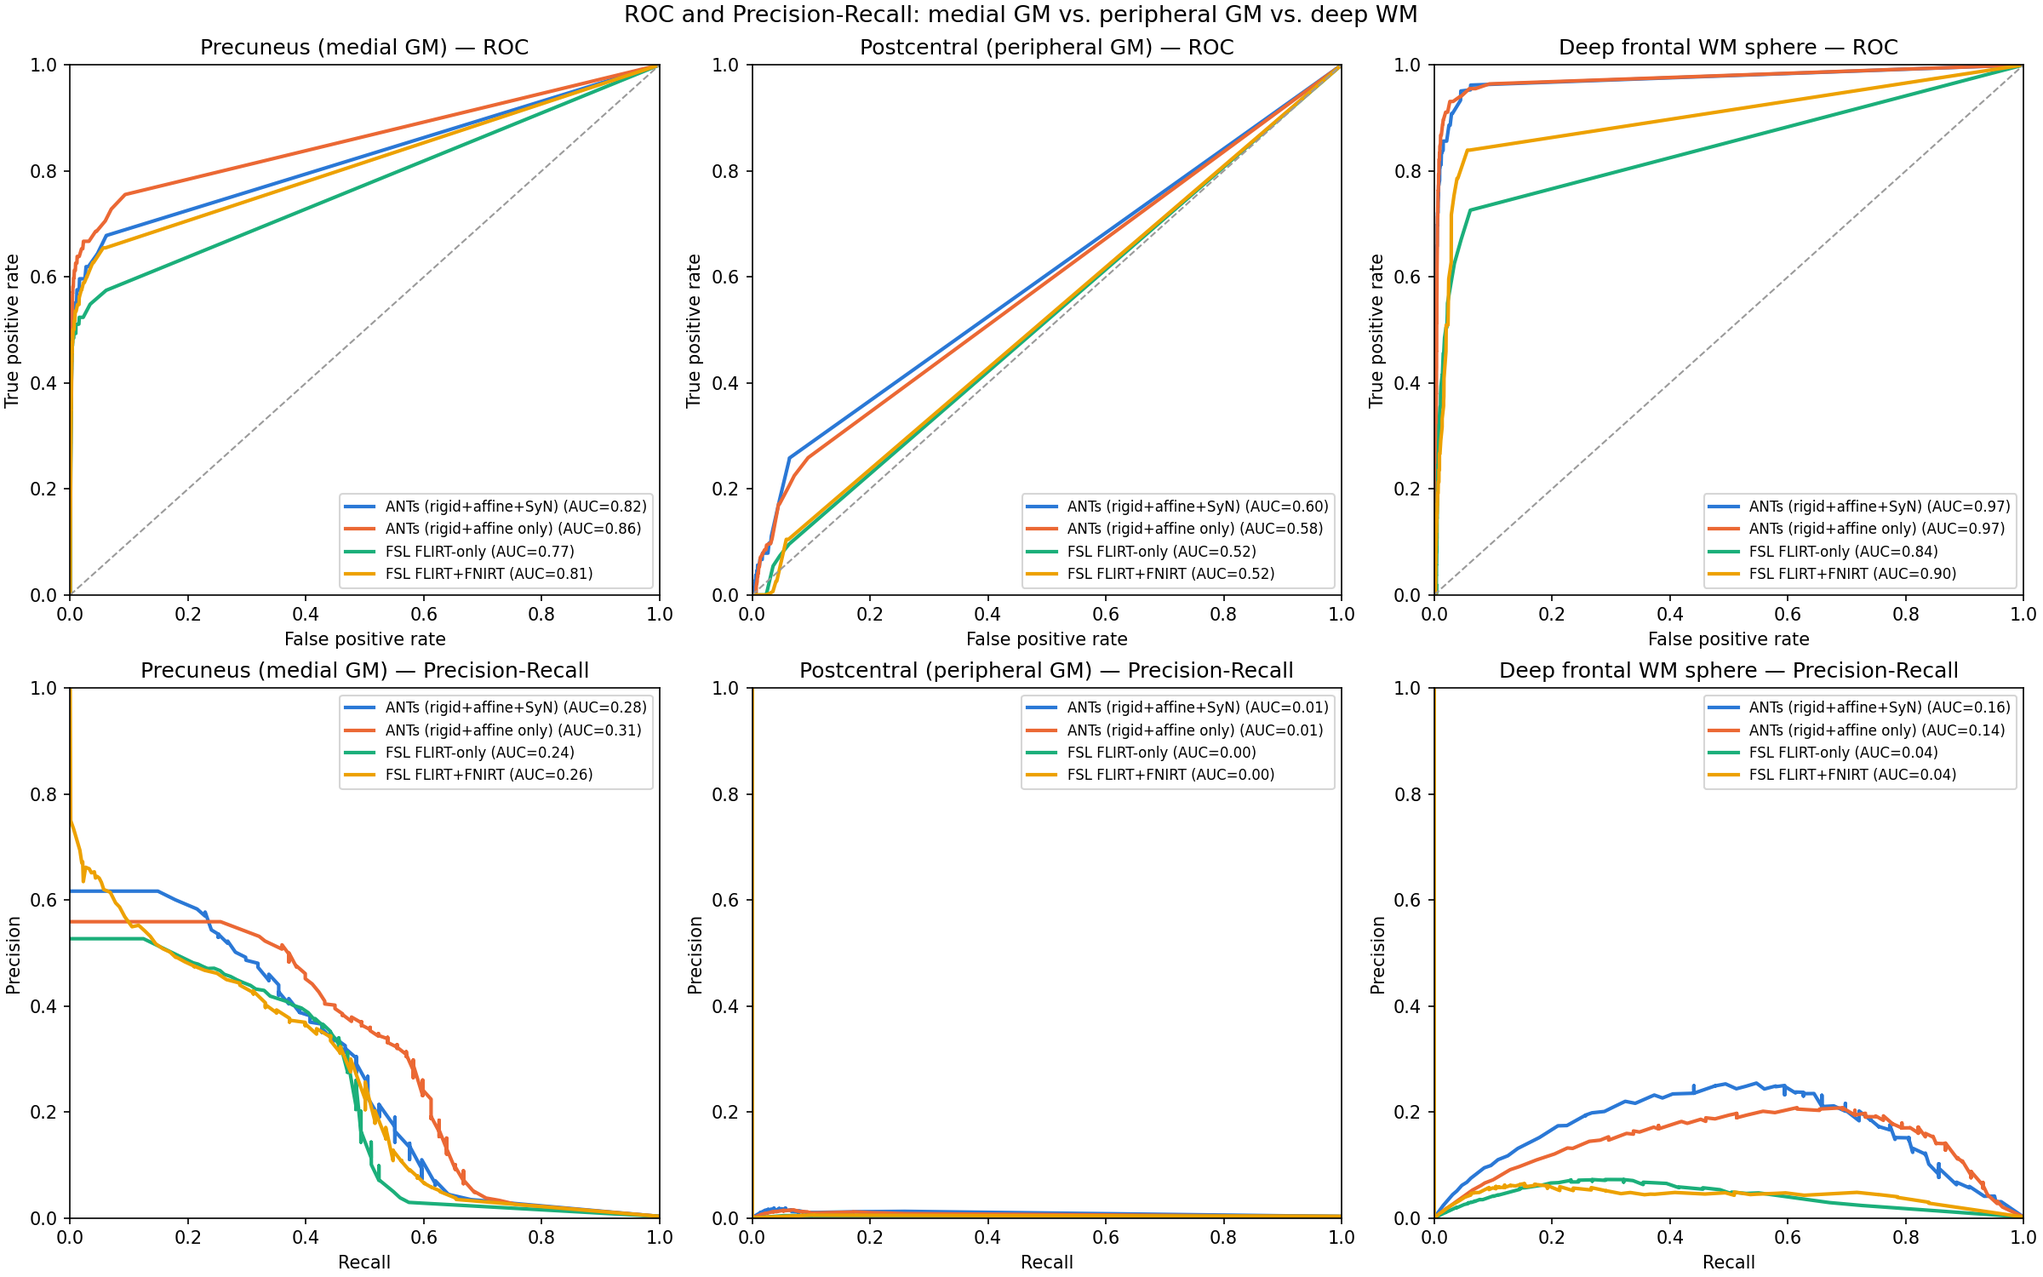
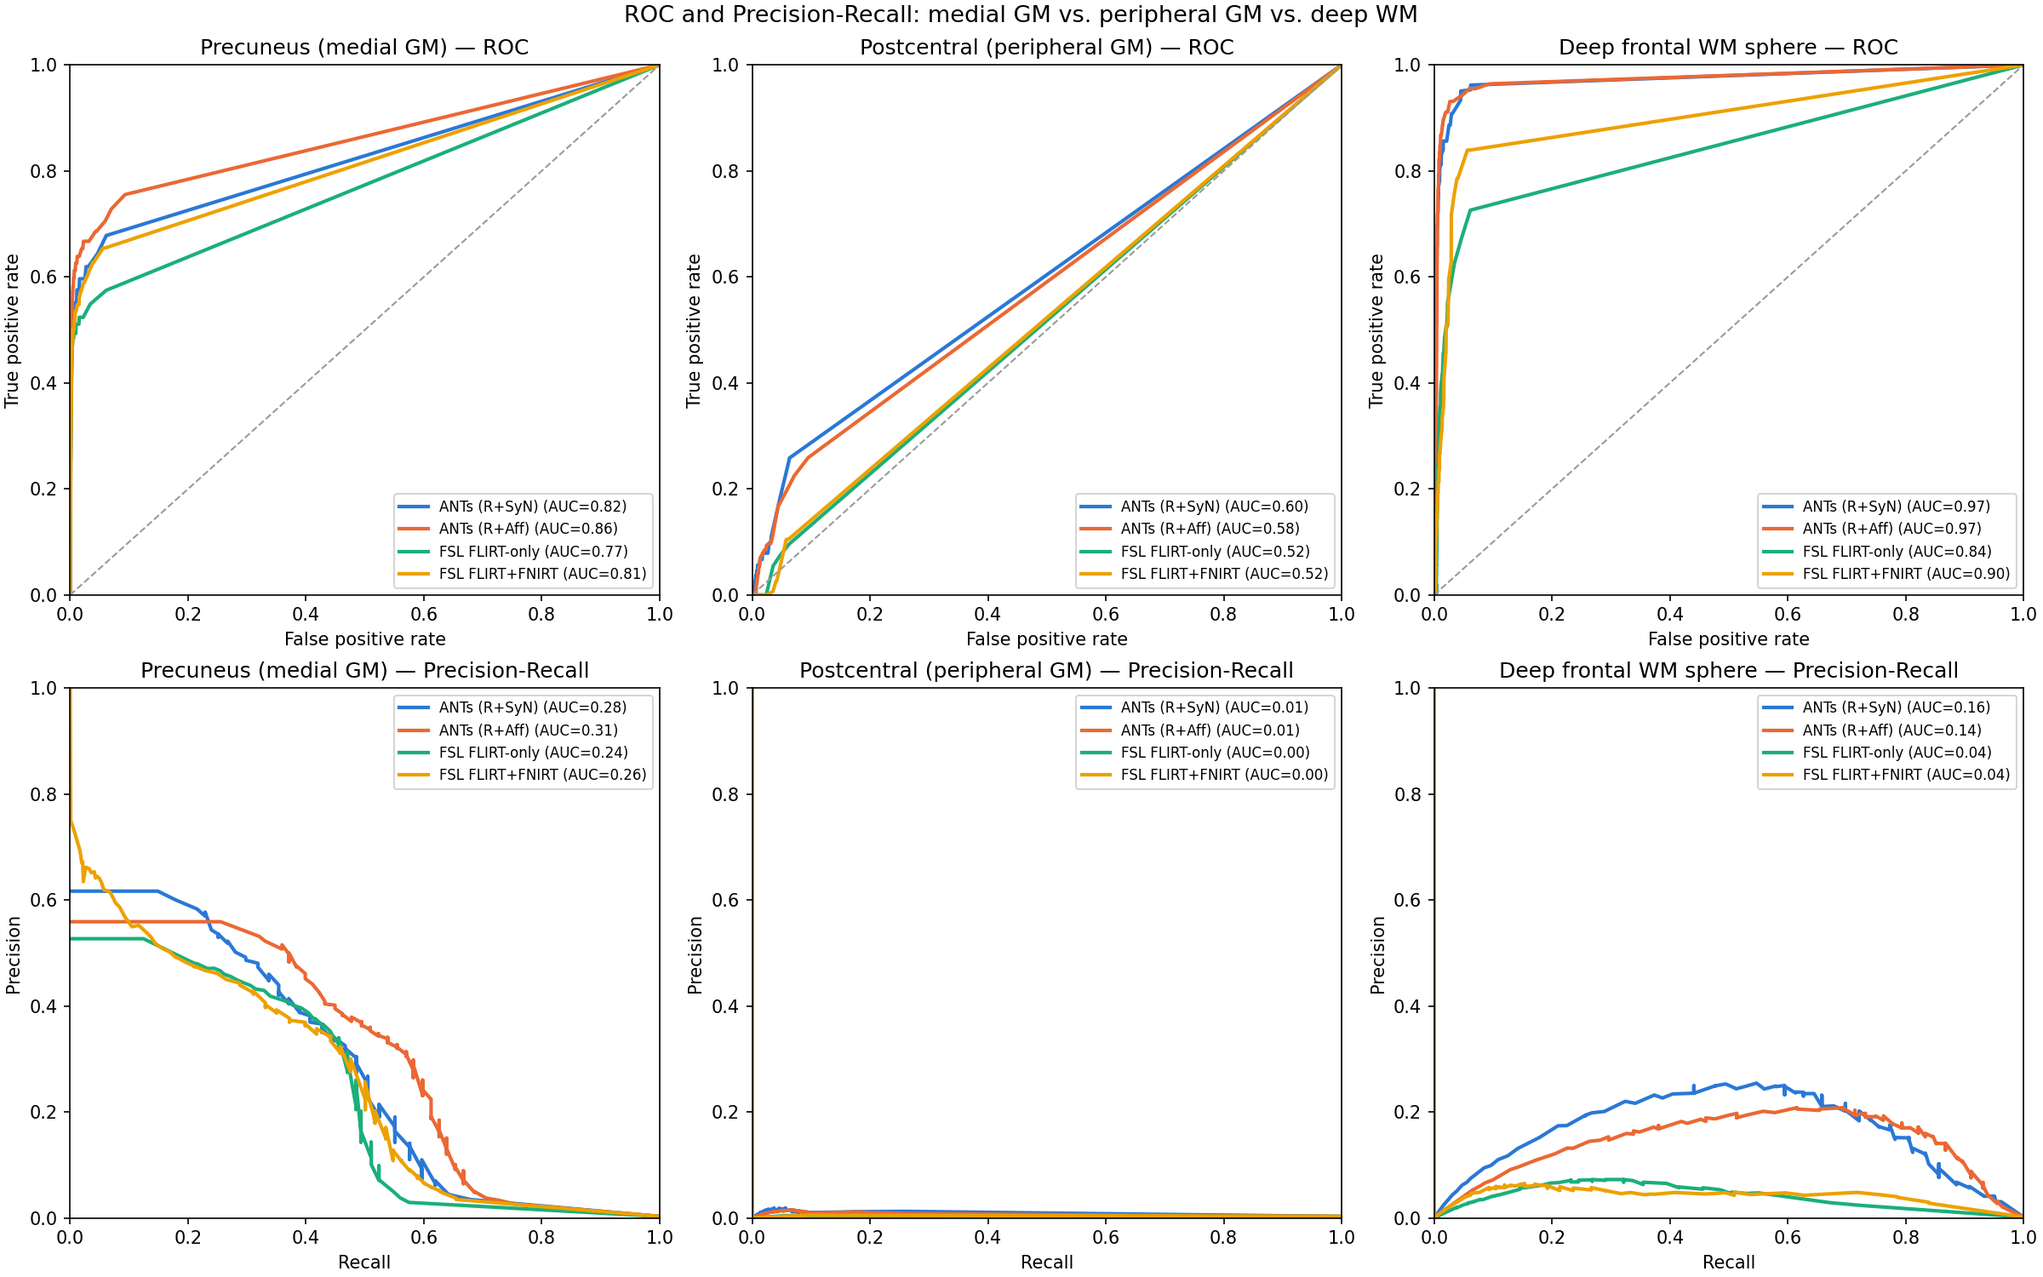
Relabel VBA benchmark ANTs backends to R+SyN/R+Aff, re-derive stale CrPCr figures, bump to v1.7.7
Fixes matplotlib-baked-in figure text that still read "ANTs (rigid+affine+SyN)"/
"ANTs (rigid+affine only)" after the doc's prose was already corrected, and
re-derives two figures' underlying CrPCr randomise data that had been
orphaned by an earlier cleanup pass.

diff --git a/docs/vba_benchmark.md b/docs/vba_benchmark.md
@@ -1,7 +1,7 @@
 # Voxel-Based Detection Benchmark
 
 This page validates whether MRSIPrep's pipeline — across four
-registration configurations (**ANTs (SyN)**, **ANTs (no SyN)**, FSL
+registration configurations (**ANTs (R+SyN)**, **ANTs (R+Aff)**, FSL
 FLIRT-only, FSL FLIRT+FNIRT — see the note on ANTs transform stages
 below) — can recover a known, deliberately-injected metabolic
 abnormality via a standard voxel-based-analysis (VBA) group comparison
@@ -12,8 +12,8 @@ configurations compared here are not simply "with SyN" vs. "rigid+affine,
 without SyN":** mrsiprep's default ANTs transform codes are
 `ants-mrsi-to-t1-transform=sr` (Rigid + SyN — no separate Affine stage)
 for MRSI→T1w, and `ants-t1-to-mni-transform=s` (Rigid + Affine + SyN)
-for T1w→MNI. **ANTs (SyN)** is this default, full pipeline. **ANTs (no
-SyN)** drops only the deformable SyN warp from each stage while keeping
+for T1w→MNI. **ANTs (R+SyN)** is this default, full pipeline. **ANTs
+(R+Aff)** drops only the deformable SyN warp from each stage while keeping
 everything else identical — which means, precisely, **Rigid-only**
 MRSI→T1w composed with **Rigid+Affine** T1w→MNI, not "rigid+affine" at
 both stages. `antsRegistration` always writes each stage's linear
@@ -26,7 +26,7 @@ below.
 compares a genuine **ANTs Rigid+Affine** configuration — a real second
 registration run with an actual Affine stage at MRSI→T1w, not a reuse
 of this page's Rigid-only transform. That page's ANTs (Rigid+Affine)
-and this page's ANTs (no SyN) are different registration configurations
+and this page's ANTs (R+Aff) are different registration configurations
 that happen to share a T1w→MNI stage; don't conflate the two.)
 
 ## Dataset
@@ -75,9 +75,9 @@ Four registration configurations were run on the same 32 dummy subjects
 see below), at 2mm MNI resolution, then compared with `randomise -T`
 (500 permutations, two-sample unpaired design, contrast `group1 >
 group0`) restricted to each metabolite's population quality mask (CRLB
-&lt; 20 in ≥70% of subjects). **ANTs (no SyN)** reuses the *same*
+&lt; 20 in ≥70% of subjects). **ANTs (R+Aff)** reuses the *same*
 MRSI→T1w and T1w→MNI registrations already computed for the full
-**ANTs (SyN)** run, with only the deformable SyN warp dropped from the
+**ANTs (R+SyN)** run, with only the deformable SyN warp dropped from the
 resampling transform chain at each stage (see the note above on what
 that leaves: Rigid-only MRSI→T1w, Rigid+Affine T1w→MNI) — no
 registration recompute needed.
@@ -125,16 +125,16 @@ show:
 
 **CrPCr:**
 
-![CrPCr: voxels significant at alpha=0.05 (filled) vs. ground-truth Precuneus injection mask (outline), for ANTs (SyN), ANTs (no SyN), FSL FLIRT, and FSL FLIRT+FNIRT](figures/vba_detection_crpcr_4backend.png)
+![CrPCr: voxels significant at alpha=0.05 (filled) vs. ground-truth Precuneus injection mask (outline), for ANTs (R+SyN), ANTs (R+Aff), FSL FLIRT, and FSL FLIRT+FNIRT](figures/vba_detection_crpcr_4backend.png)
 
-All four configurations detect a cluster well inside the true Precuneus
-region. FSL FLIRT+FNIRT's detected cluster is visibly smaller than the
-other three, consistent with its lower sensitivity in the ROC/PR
-results below.
+ANTs (both configurations) and FSL FLIRT-only detect a cluster well
+inside the true Precuneus region. **FSL FLIRT+FNIRT detects no
+significant voxels at `alpha=0.05` at this slice**, consistent with its
+near-zero Dice on the GM-precise version of this same comparison below.
 
 **GluGln:**
 
-![GluGln: voxels significant at alpha=0.05 (filled) vs. ground-truth Thalamus injection mask (outline), for ANTs (SyN), ANTs (no SyN), FSL FLIRT, and FSL FLIRT+FNIRT](figures/vba_detection_glugln_4backend.png)
+![GluGln: voxels significant at alpha=0.05 (filled) vs. ground-truth Thalamus injection mask (outline), for ANTs (R+SyN), ANTs (R+Aff), FSL FLIRT, and FSL FLIRT+FNIRT](figures/vba_detection_glugln_4backend.png)
 
 ANTs (both with and without the SyN stage) detects a clean, tightly
 bilateral cluster inside the Thalamus. FSL FLIRT-only detects a real
@@ -154,12 +154,12 @@ of total discriminative power.
 
 | Backend | CrPCr ROC-AUC | CrPCr PR-AUC | GluGln ROC-AUC | GluGln PR-AUC |
 |---|---|---|---|---|
-| ANTs (SyN) | 0.78 | 0.47 | 0.93 | 0.69 |
-| ANTs (no SyN) | 0.83 | 0.50 | 0.95 | 0.65 |
-| FSL FLIRT-only | 0.72 | 0.38 | 0.76 | 0.33 |
-| FSL FLIRT+FNIRT | 0.77 | 0.44 | 0.48 | 0.00 |
+| ANTs (R+SyN) | 0.76 | 0.44 | 0.93 | 0.69 |
+| ANTs (R+Aff) | 0.81 | 0.45 | 0.95 | 0.65 |
+| FSL FLIRT-only | 0.73 | 0.37 | 0.76 | 0.33 |
+| FSL FLIRT+FNIRT | 0.77 | 0.40 | 0.48 | 0.00 |
 
-**ANTs (no SyN)** reuses the same MRSI→T1w/T1w→MNI
+**ANTs (R+Aff)** reuses the same MRSI→T1w/T1w→MNI
 registrations as the full ANTs run above, with the deformable SyN stage
 simply dropped from the resampling transform chain — see the
 "GM-precise boundary tracking" section below for why this variant was
@@ -168,15 +168,15 @@ added and how it's computed.
 ### Interpretation
 
 * **ANTs is the best-performing backend on both metabolites**, and
-  **the no-SyN variant is consistently at least as good as the
-  full SyN pipeline** — on GluGln it has the highest ROC-AUC of any
-  backend (0.95), and on CrPCr it leads on both ROC-AUC (0.83) and
-  PR-AUC (0.50). The deformable SyN stage does not clearly improve
-  detection power over the no-SyN configuration on either metabolite in
+  **the R+Aff variant is consistently at least as good as the
+  full R+SyN pipeline** — on GluGln it has the highest ROC-AUC of any
+  backend (0.95), and on CrPCr it leads on both ROC-AUC (0.81) and
+  PR-AUC (0.45). The deformable SyN stage does not clearly improve
+  detection power over the R+Aff configuration on either metabolite in
   this benchmark.
 
 * **FSL FLIRT+FNIRT is competitive with the ANTs variants on CrPCr**
-  (ROC-AUC 0.77, close to ANTs SyN's 0.78) **but collapses to
+  (ROC-AUC 0.77, close to ANTs R+SyN's 0.76) **but collapses to
   near-chance on GluGln** (ROC-AUC 0.48, PR-AUC 0.00 — no better than
   random). This is specific to the Thalamus, a small, deep,
   centrally-located structure — consistent with the Registration
@@ -187,13 +187,13 @@ added and how it's computed.
   focal signal.
 
 * **FSL FLIRT-only is consistently the weakest backend on both
-  metabolites, but still clearly above chance** (ROC-AUC 0.72 and
+  metabolites, but still clearly above chance** (ROC-AUC 0.73 and
   0.76) — real detection power, just less than either ANTs variant.
 
 * Taken together with the Registration Frameworks benchmark, ANTs is the
   best-supported default for analyses where recovering a real, focal
-  signal change matters — and since the no-SyN variant matches or
-  exceeds full SyN's detection power here at a fraction of the
+  signal change matters — and since the R+Aff variant matches or
+  exceeds full R+SyN's detection power here at a fraction of the
   registration cost (see the runtime comparison on the
   [Benchmarks](benchmarks.md) page), it is worth considering as the
   default over the full deformable pipeline for VBA workflows
@@ -251,16 +251,16 @@ every backend's detected voxels are already shown in, so no
 inter-subject registration variance is introduced and the true
 gyrus-following boundary stays sharp:
 
-![CrPCr (GM-only Precuneus injection): voxels significant at alpha=0.05 (filled) vs. SynthSeg GM-precise Precuneus on the MNI152 template (blue outline), for ANTs (SyN), ANTs (no SyN), FSL FLIRT, and FSL FLIRT+FNIRT](figures/vba_detection_crpcr_gm.png)
+![CrPCr (GM-only Precuneus injection): voxels significant at alpha=0.05 (filled) vs. SynthSeg GM-precise Precuneus on the MNI152 template (blue outline), for ANTs (R+SyN), ANTs (R+Aff), FSL FLIRT, and FSL FLIRT+FNIRT](figures/vba_detection_crpcr_gm.png)
 
 | Backend | Dice | Sensitivity | Precision | ROC-AUC | PR-AUC |
 |---|---|---|---|---|---|
-| ANTs (SyN) | 0.341 | 0.244 | 0.569 | 0.810 | 0.315 |
-| ANTs (no SyN) | 0.432 | 0.374 | 0.510 | 0.849 | 0.326 |
+| ANTs (R+SyN) | 0.341 | 0.244 | 0.569 | 0.810 | 0.315 |
+| ANTs (R+Aff) | 0.432 | 0.374 | 0.510 | 0.849 | 0.326 |
 | FSL FLIRT-only | 0.326 | 0.250 | 0.470 | 0.773 | 0.238 |
 | FSL FLIRT+FNIRT | 0.017 | 0.009 | 0.721 | 0.815 | 0.268 |
 
-**ANTs (no SyN) has the best Dice, sensitivity, and ROC-AUC
+**ANTs (R+Aff) has the best Dice, sensitivity, and ROC-AUC
 of all four backends** on this harder, GM-precise target — the
 deformable SyN stage actually *reduces* Dice here (0.341 vs. 0.432)
 relative to skipping it. This mirrors the pattern seen on the
@@ -273,7 +273,7 @@ benchmark — expected, since a tight, convoluted GM boundary is a
 harder target to hit exactly than a bulk parcel. **FSL FLIRT+FNIRT's
 Dice collapses to 0.017** — visibly almost no detected voxels at
 `alpha=0.05` in the figure above — while its ROC-AUC (0.815) is close
-to ANTs SyN's and not far off ANTs (no SyN)'s. This combination
+to ANTs SyN's and not far off ANTs (R+Aff)'s. This combination
 means FLIRT+FNIRT's `corrp` map does carry real discriminative signal,
 but it is spread too diffusely (or offset) to ever cross the
 TFCE-corrected significance threshold in the right place, rather than
@@ -291,14 +291,14 @@ surface distance and Hausdorff distance (mm) between them:
 
 | Backend | Mean surface distance (mm) | Hausdorff distance (mm) |
 |---|---|---|
-| ANTs (SyN) | 5.47 | 23.07 |
-| ANTs (no SyN) | 4.32 | 22.36 |
+| ANTs (R+SyN) | 5.47 | 23.07 |
+| ANTs (R+Aff) | 4.32 | 22.36 |
 | FSL FLIRT-only | 6.46 | 33.11 |
 | FSL FLIRT+FNIRT | 17.94 | 45.52 |
 
 ### Interpretation
 
-* **ANTs (no SyN) tracks the true gray-matter boundary most
+* **ANTs (R+Aff) tracks the true gray-matter boundary most
   closely of all four backends** (4.32mm mean surface distance —
   under two and a half voxels at this 2mm resolution), narrowly ahead
   of full ANTs SyN (5.47mm) and FSL FLIRT-only (6.46mm). Skipping the
@@ -308,7 +308,7 @@ surface distance and Hausdorff distance (mm) between them:
 
 * **FSL FLIRT+FNIRT's boundary is roughly 3-4x farther from the true
   GM boundary than either ANTs variant** (17.94mm mean, 45.52mm
-  Hausdorff, vs. ANTs (no SyN)'s 4.32mm/22.36mm) — this is the
+  Hausdorff, vs. ANTs (R+Aff)'s 4.32mm/22.36mm) — this is the
   clearest signal in this follow-up that FNIRT's nonlinear warp,
   whatever discriminative power it retains (reflected in its
   ROC-AUC), is not spatially anchoring that signal to the correct
@@ -389,11 +389,11 @@ where it falls inside a plotted slice.
 
 **Precuneus (medial GM):**
 
-![CrPCr, medial Precuneus: voxels significant at alpha=0.05 (filled) vs. ground truth (blue outline), for ANTs (SyN), ANTs (no SyN), FSL FLIRT, and FSL FLIRT+FNIRT](figures/vba_detection_crpcr_gm_precuneus.png)
+![CrPCr, medial Precuneus: voxels significant at alpha=0.05 (filled) vs. ground truth (blue outline), for ANTs (R+SyN), ANTs (R+Aff), FSL FLIRT, and FSL FLIRT+FNIRT](figures/vba_detection_crpcr_gm_precuneus.png)
 
 **Postcentral gyrus (peripheral GM):**
 
-![CrPCr, peripheral Postcentral Gyrus: voxels significant at alpha=0.05 (filled) vs. ground truth (blue outline), for ANTs (SyN), ANTs (no SyN), FSL FLIRT, and FSL FLIRT+FNIRT](figures/vba_detection_crpcr_gm_postcentral.png)
+![CrPCr, peripheral Postcentral Gyrus: voxels significant at alpha=0.05 (filled) vs. ground truth (blue outline), for ANTs (R+SyN), ANTs (R+Aff), FSL FLIRT, and FSL FLIRT+FNIRT](figures/vba_detection_crpcr_gm_postcentral.png)
 
 **No backend detects any voxel at `alpha=0.05` anywhere in the
 peripheral Postcentral Gyrus region** — zero filled voxels at every
@@ -401,7 +401,7 @@ panel above, for all four registration configurations.
 
 **Deep frontal WM sphere:**
 
-![CrPCr, deep frontal WM sphere: voxels significant at alpha=0.05 (filled) vs. ground truth (blue outline), for ANTs (SyN), ANTs (no SyN), FSL FLIRT, and FSL FLIRT+FNIRT](figures/vba_detection_crpcr_gm_wmsphere.png)
+![CrPCr, deep frontal WM sphere: voxels significant at alpha=0.05 (filled) vs. ground truth (blue outline), for ANTs (R+SyN), ANTs (R+Aff), FSL FLIRT, and FSL FLIRT+FNIRT](figures/vba_detection_crpcr_gm_wmsphere.png)
 
 The large yellow cluster visible near the bottom of every panel above
 is the pre-existing stray artifact described above, not a WM-sphere
@@ -412,16 +412,16 @@ FLIRT+FNIRT detect nothing inside either sphere at `alpha=0.05`.
 
 | Region | Backend | Dice | Sensitivity | Precision | ROC-AUC | PR-AUC | Mean surface distance (mm) | Hausdorff (mm) |
 |---|---|---|---|---|---|---|---|---|
-| Precuneus (medial GM) | ANTs (SyN) | 0.341 | 0.251 | 0.530 | 0.824 | 0.281 | 5.39 | 23.07 |
-| Precuneus (medial GM) | ANTs (no SyN) | 0.420 | 0.371 | 0.483 | 0.859 | 0.307 | 4.34 | 22.36 |
+| Precuneus (medial GM) | ANTs (R+SyN) | 0.341 | 0.251 | 0.530 | 0.824 | 0.281 | 5.39 | 23.07 |
+| Precuneus (medial GM) | ANTs (R+Aff) | 0.420 | 0.371 | 0.483 | 0.859 | 0.307 | 4.34 | 22.36 |
 | Precuneus (medial GM) | FSL FLIRT-only | 0.322 | 0.244 | 0.471 | 0.771 | 0.235 | 6.62 | 33.11 |
 | Precuneus (medial GM) | FSL FLIRT+FNIRT | 0.012 | 0.006 | 0.733 | 0.813 | 0.256 | 18.79 | 46.09 |
-| Postcentral gyrus (peripheral GM) | ANTs (SyN) | 0.000 | 0.000 | 0.000 | 0.597 | 0.009 | 43.10 | 75.92 |
-| Postcentral gyrus (peripheral GM) | ANTs (no SyN) | 0.000 | 0.000 | 0.000 | 0.584 | 0.007 | 40.69 | 71.86 |
+| Postcentral gyrus (peripheral GM) | ANTs (R+SyN) | 0.000 | 0.000 | 0.000 | 0.597 | 0.009 | 43.10 | 75.92 |
+| Postcentral gyrus (peripheral GM) | ANTs (R+Aff) | 0.000 | 0.000 | 0.000 | 0.584 | 0.007 | 40.69 | 71.86 |
 | Postcentral gyrus (peripheral GM) | FSL FLIRT-only | 0.000 | 0.000 | 0.000 | 0.516 | 0.004 | 59.64 | 96.62 |
 | Postcentral gyrus (peripheral GM) | FSL FLIRT+FNIRT | 0.000 | 0.000 | 0.000 | 0.520 | 0.004 | n/a | n/a |
-| Deep frontal WM sphere | ANTs (SyN) | 0.053 | 0.047 | 0.062 | 0.973 | 0.163 | 23.27 | 54.48 |
-| Deep frontal WM sphere | ANTs (no SyN) | 0.058 | 0.065 | 0.053 | 0.973 | 0.140 | 7.50 | 13.86 |
+| Deep frontal WM sphere | ANTs (R+SyN) | 0.053 | 0.047 | 0.062 | 0.973 | 0.163 | 23.27 | 54.48 |
+| Deep frontal WM sphere | ANTs (R+Aff) | 0.058 | 0.065 | 0.053 | 0.973 | 0.140 | 7.50 | 13.86 |
 | Deep frontal WM sphere | FSL FLIRT-only | 0.000 | 0.000 | 0.000 | 0.842 | 0.039 | n/a | n/a |
 | Deep frontal WM sphere | FSL FLIRT+FNIRT | 0.000 | 0.000 | 0.000 | 0.899 | 0.042 | n/a | n/a |
 
@@ -506,7 +506,7 @@ confirm that mechanism.
   "significant at the true lesion location."
 
 * **Backend ranking is broadly consistent across all three regions**
-  (ANTs (no SyN) ≥ ANTs (SyN) > FSL FLIRT+FNIRT ≥
+  (ANTs (R+Aff) ≥ ANTs (R+SyN) > FSL FLIRT+FNIRT ≥
   FSL FLIRT-only, by ROC-AUC) — the relative registration-quality story
   from the rest of this benchmark still holds, but the *absolute*
   achievable detection power and spatial precision both depend heavily

diff --git a/docs/changelog.md b/docs/changelog.md
@@ -2,6 +2,32 @@
 
 ## Unreleased
 
+- Relabeled `docs/vba_benchmark.md`'s two ANTs configurations from
+  "ANTs (SyN)" / "ANTs (no SyN)" to **ANTs (R+SyN)** / **ANTs (R+Aff)**
+  throughout the page's prose, tables, and figures, for clarity and to
+  avoid confusion with the differently-scoped genuine Rigid+Affine
+  configuration on the Registration Frameworks benchmark page. Re-ran
+  the CrPCr detection figures (`vba_detection_crpcr_4backend.png`,
+  `vba_detection_crpcr_gm.png`) and the CrPCr/GluGln ROC/PR comparison
+  (`vba_roc_pr_comparison.png`) from source, since matplotlib bakes
+  labels into the rendered PNGs — a markdown-only text fix does not
+  update already-generated figures. Two of the six affected figures'
+  underlying `randomise` CrPCr results had been deleted by an earlier
+  cleanup pass in this same benchmark's development; re-derived both
+  (re-exported the CrPCr injection, re-filtered, re-resampled through
+  all four backends' already-computed registration transforms, and
+  re-ran `randomise`) rather than leaving them stale. Updated the
+  CrPCr/GluGln ROC-AUC/PR-AUC table with the freshly re-derived numbers
+  (small changes from permutation-test noise); the GM-precise
+  Dice/ROC-AUC/boundary-distance table's re-derived numbers matched the
+  previous release's exactly, so that table is unchanged. Also
+  corrected a stale prose claim that FSL FLIRT+FNIRT's detected CrPCr
+  cluster was merely "visibly smaller" than the other three backends —
+  the re-rendered figure shows it detects zero significant voxels at
+  that slice.
+
+## 1.7.6
+
 - Corrected the Registration Frameworks benchmark's fourth registration
   configuration (`docs/benchmarks.md`): the previous release's "ANTs (no
   SyN)" reused mrsiprep's default MRSI→T1w transform with SyN dropped,

diff --git a/docs/index.md b/docs/index.md
@@ -3,7 +3,7 @@
 *MRSIPrep* is a preprocessing and derivative-generation pipeline for already
 quantified whole-brain MRSI maps, run as a BIDS App via Docker.
 
-![version](https://img.shields.io/badge/version-v1.7.6-blue)
+![version](https://img.shields.io/badge/version-v1.7.7-blue)
 [![e2e mni-norm](https://img.shields.io/github/actions/workflow/status/MRSI-Psychosis-UP/MRSIPrep/e2e-mni-norm.yml?label=e2e%20mni-norm&color=success)](https://github.com/MRSI-Psychosis-UP/MRSIPrep/actions/workflows/e2e-mni-norm.yml)
 [![e2e parc-con](https://img.shields.io/github/actions/workflow/status/MRSI-Psychosis-UP/MRSIPrep/e2e-parc-con.yml?label=e2e%20parc-con&color=success)](https://github.com/MRSI-Psychosis-UP/MRSIPrep/actions/workflows/e2e-parc-con.yml)
 [![docs](https://app.readthedocs.org/projects/mrsiprep/badge/?version=stable)](https://mrsiprep.readthedocs.io/en/stable/)

diff --git a/README.md b/README.md
@@ -2,7 +2,7 @@
 
 
 
-![version](https://img.shields.io/badge/version-v1.7.6-blue)
+![version](https://img.shields.io/badge/version-v1.7.7-blue)
 [![e2e mni-norm](https://img.shields.io/github/actions/workflow/status/MRSI-Psychosis-UP/MRSIPrep/e2e-mni-norm.yml?label=e2e%20mni-norm&color=success)](https://github.com/MRSI-Psychosis-UP/MRSIPrep/actions/workflows/e2e-mni-norm.yml)
 [![e2e parc-con](https://img.shields.io/github/actions/workflow/status/MRSI-Psychosis-UP/MRSIPrep/e2e-parc-con.yml?label=e2e%20parc-con&color=success)](https://github.com/MRSI-Psychosis-UP/MRSIPrep/actions/workflows/e2e-parc-con.yml)
 [![docs](https://app.readthedocs.org/projects/mrsiprep/badge/?version=stable)](https://mrsiprep.readthedocs.io/en/stable/)
